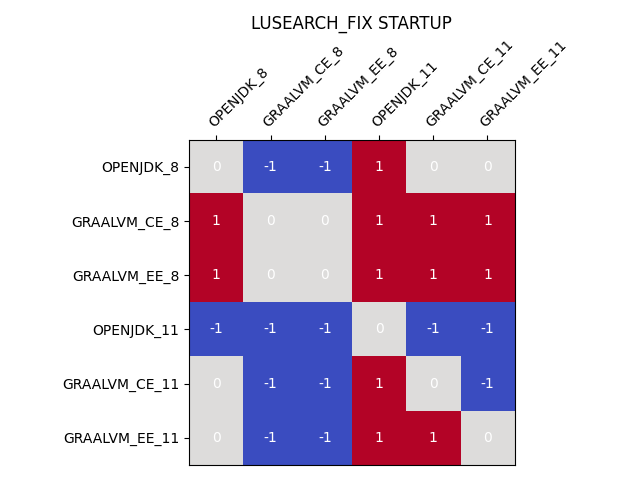
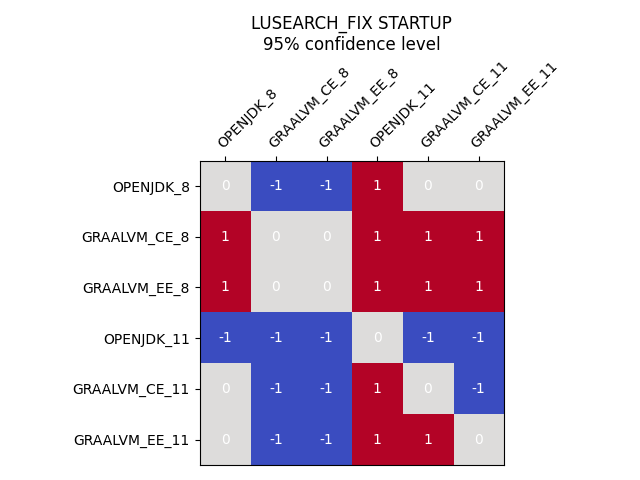
heatmap titles updated

diff --git a/src/python/benchmark_matrix.py b/src/python/benchmark_matrix.py
@@ -38,7 +38,7 @@ def compare_performance(first: dict, second: dict):
     return 0
 
 
-def create_heatmap(benchmark, state, matrix):
+def create_heatmap(benchmark, state, matrix, confidence_level):
     fig, ax = plt.subplots()
     cmap = colors.ListedColormap(['red', 'grey', 'blue'])
     ax.imshow(matrix, cmap=cm.get_cmap("coolwarm"))
@@ -58,7 +58,7 @@ def create_heatmap(benchmark, state, matrix):
                            va="center",
                            color="w")
 
-    plt.title(benchmark + " " + state)
+    plt.title(benchmark + " " + state + "\n" + confidence_level + " confidence level")
     fig.tight_layout()
     filename = benchmark + "_" + state + "_heatmap"
     plt.savefig(filename)
@@ -80,6 +80,7 @@ os.chdir(WORKING_DIRECTORY)
 data = toml.load(TOML_FILE_PATH)
 
 for s in MEASUREMENTS:
+    cl = ""
     total = create_empty_matrix(len(JVMS))
     for bm in BENCHMARKS:
         m = []
@@ -91,6 +92,7 @@ for s in MEASUREMENTS:
                 res = compare_performance(main_data, other_data)
                 comparisons.append(res)
                 total[id_jvm][id_other] += res
+                cl = main_data.get("confidence_level")
             m.append(comparisons)
-        create_heatmap(bm, s, m)
-    create_heatmap("TOTAL", s, total)
+        create_heatmap(bm, s, m, cl)
+    create_heatmap("TOTAL", s, total, cl)
